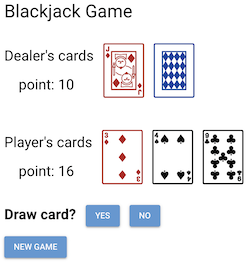
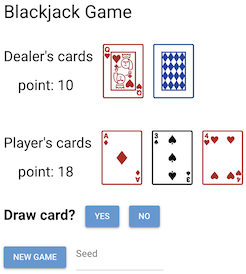
add:seed

diff --git a/src/nicegui_blackjack/blackjack.py b/src/nicegui_blackjack/blackjack.py
@@ -2,10 +2,11 @@
 
 import asyncio
 import random
+import secrets
 from collections.abc import Callable, Iterable
 from enum import IntEnum
 from logging import DEBUG, basicConfig, getLogger
-from typing import ClassVar, Final, Literal, cast
+from typing import Any, ClassVar, Final, Literal, cast
 
 from nicegui import ui
 
@@ -30,8 +31,6 @@ class Suit(IntEnum):
 
 # カードの数字
 type Rank = Literal[1, 2, 3, 4, 5, 6, 7, 8, 9, 10, 11, 12, 13]
-# カードのスタイル
-type CardClass = Literal["", "opened", "hidden"]
 
 
 class Card(ui.element):
@@ -46,7 +45,7 @@ class Card(ui.element):
     rank: Rank
     suit: Suit
 
-    def __init__(self, num: int, *, class_: CardClass = "", click: Callable | None = None):
+    def __init__(self, num: int, *, opened: bool = False, click: Callable | None = None):
         """表と裏のdivタグを作成(デフォルトは裏を表示)"""
         super().__init__()
         self.num = num
@@ -55,7 +54,7 @@ class Card(ui.element):
         char = chr(CARD_CODE + self.suit * 16 + self.rank + (self.rank > 11))  # noqa: PLR2004
         color = "black" if self.suit in {Suit.Spade, Suit.Club} else "red-10"
         # GUI作成
-        with self.classes(f"card {class_}").on("click", click):
+        with self.classes(f"card{' opened' * opened}").on("click", click):
             ui.label(chr(CARD_CODE)).classes("face front text-blue-10")
             ui.label(char).classes(f"face back text-{color}")
 
@@ -74,11 +73,8 @@ class Card(ui.element):
 
     def __str__(self):
         """文字列化"""
-        n = self.rank * 2
-        m = n - 2
-        r = " A 2 3 4 5 6 7 8 910 J Q K"[m:n]
-        s = "(" + "SHDC"[self.suit] + ")"
-        return r + s
+        r = " A 2 3 4 5 6 7 8 910 J Q K"[self.rank * 2 - 2 : self.rank * 2]
+        return r + f"({'SHDC'[self.suit]})"
 
 
 class Owner(ui.element):
@@ -101,12 +97,12 @@ class Owner(ui.element):
             with ui.column().classes("mt-6"):
                 ui.label(f"{name}'s cards").classes("text-2xl")
                 ui.label().bind_text_from(self, "message").classes("text-2xl pl-6")
-            self.cards = [Card(num, class_="opened" if i < opened_num else "") for i, num in enumerate(nums)]
+            self.cards = [Card(num, opened=i < opened_num) for i, num in enumerate(nums)]
 
-    def add_card(self, num: int, *, class_: CardClass = "", click: Callable | None = None) -> None:
+    def add_card(self, num: int, **kwargs) -> None:
         """手札に一枚加える"""
         with self.container:
-            self.cards.append(Card(num, class_=class_, click=click))
+            self.cards.append(Card(num, **kwargs))
 
     def point(self) -> int:
         """手札の合計得点"""
@@ -214,7 +210,7 @@ class Game(ui.element):
             }
         """)
 
-    def start(self, seed: int | None = None, *, nums: list[int] | None = None) -> None:
+    def start(self, seed: Any = None, *, nums: list[int] | None = None) -> None:
         """新規ゲーム
 
         :param seed: 乱数シード, defaults to None
@@ -224,8 +220,11 @@ class Game(ui.element):
             self.nums = nums
         else:
             self.nums = [*range(52)]
-            if seed is not None:
-                random.seed(seed)
+            if isinstance(seed, str) and seed.isdigit():
+                seed = int(seed)
+            seed = secrets.randbelow(1000_000_000) if seed is None else seed
+            random.seed(seed)
+            logger.debug("Game.start: seed %s", seed)
             random.shuffle(self.nums)
         self.change_ask(ask_draw=True)
         # GUI作成
@@ -239,7 +238,10 @@ class Game(ui.element):
                     ui.label().bind_text(self, "message").classes("text-2xl font-bold")
                     ui.button("Yes", on_click=self.player_turn).bind_visibility_from(self, "ask_draw")
                     ui.button("No", on_click=self.dealer_turn).bind_visibility_from(self, "ask_draw")
-                ui.button("New Game", on_click=self.start)
+                with ui.row():
+                    self._seed = ""
+                    ui.button("New Game", on_click=lambda: self.start(self._seed or None)).classes("mt-4")
+                    ui.input(label="Seed").bind_value(self, "_seed")
 
     def change_ask(self, *, ask_draw: bool, message: str = "Click your card.") -> None:
         """プレイヤーにカードを引くか尋ねるように設定"""
